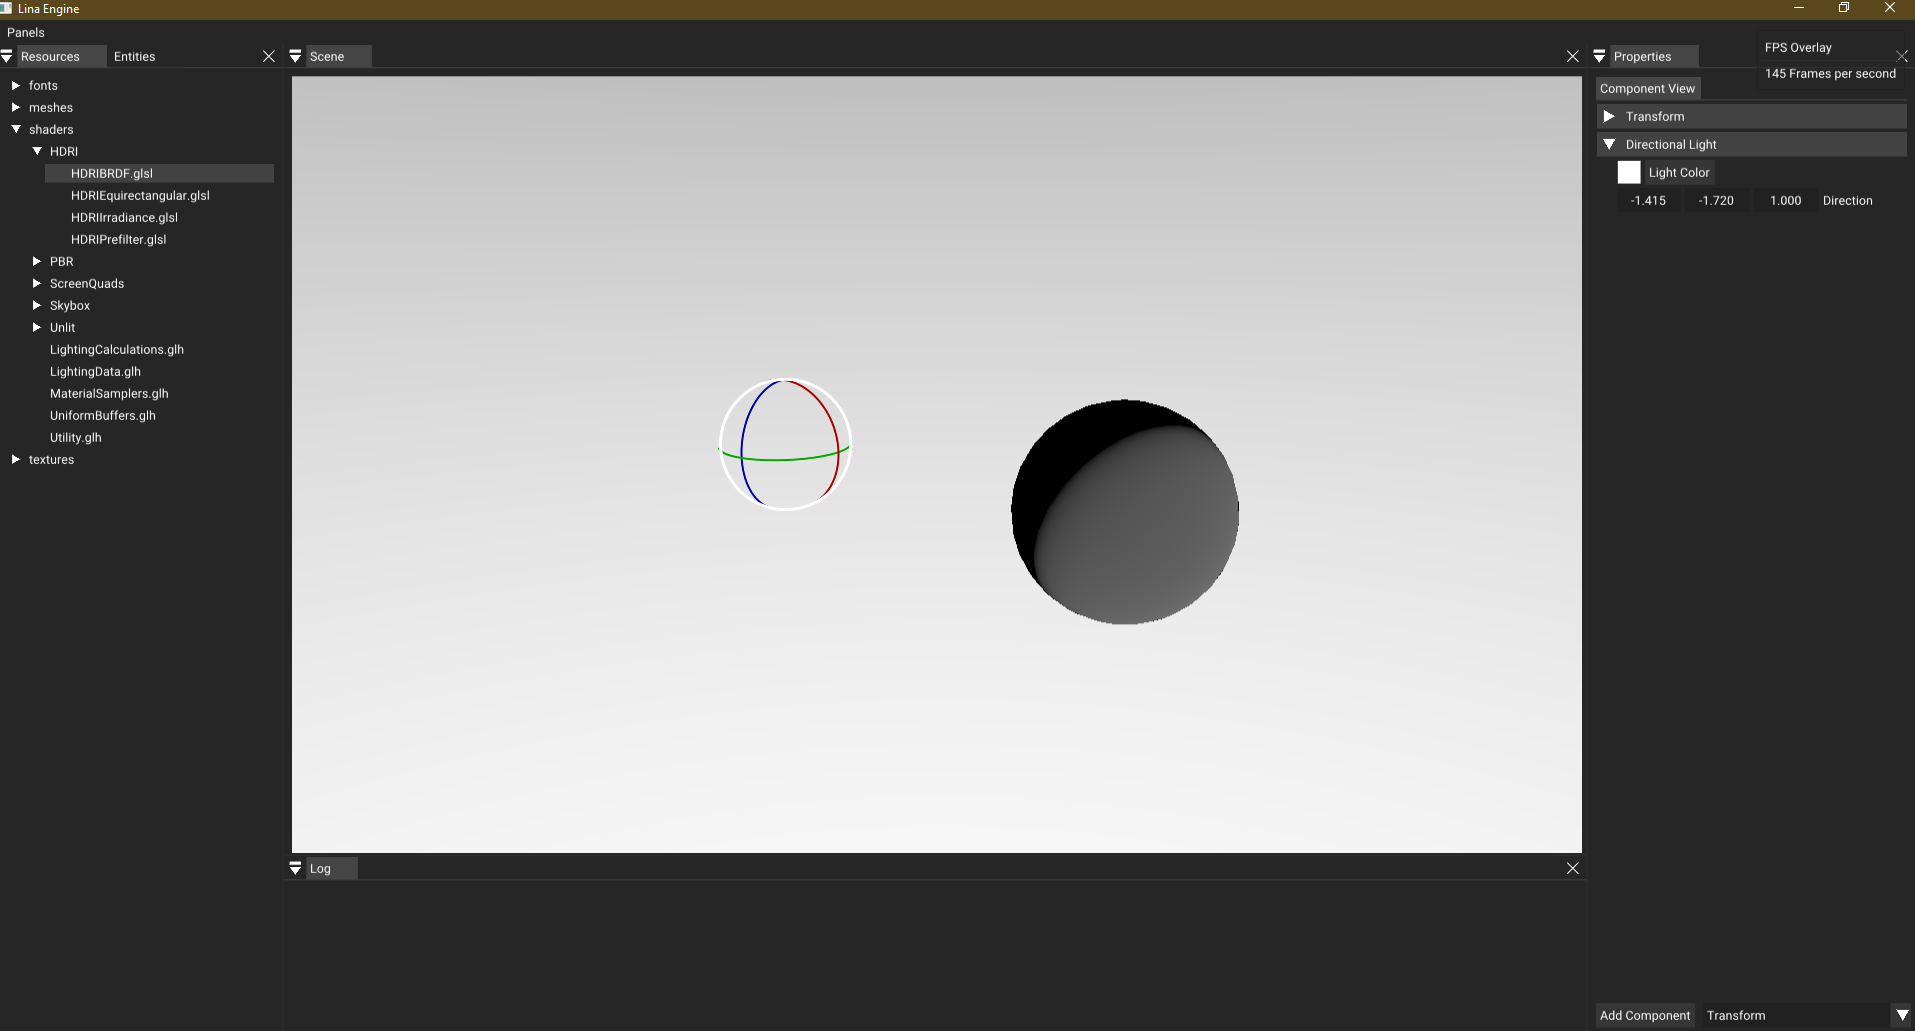
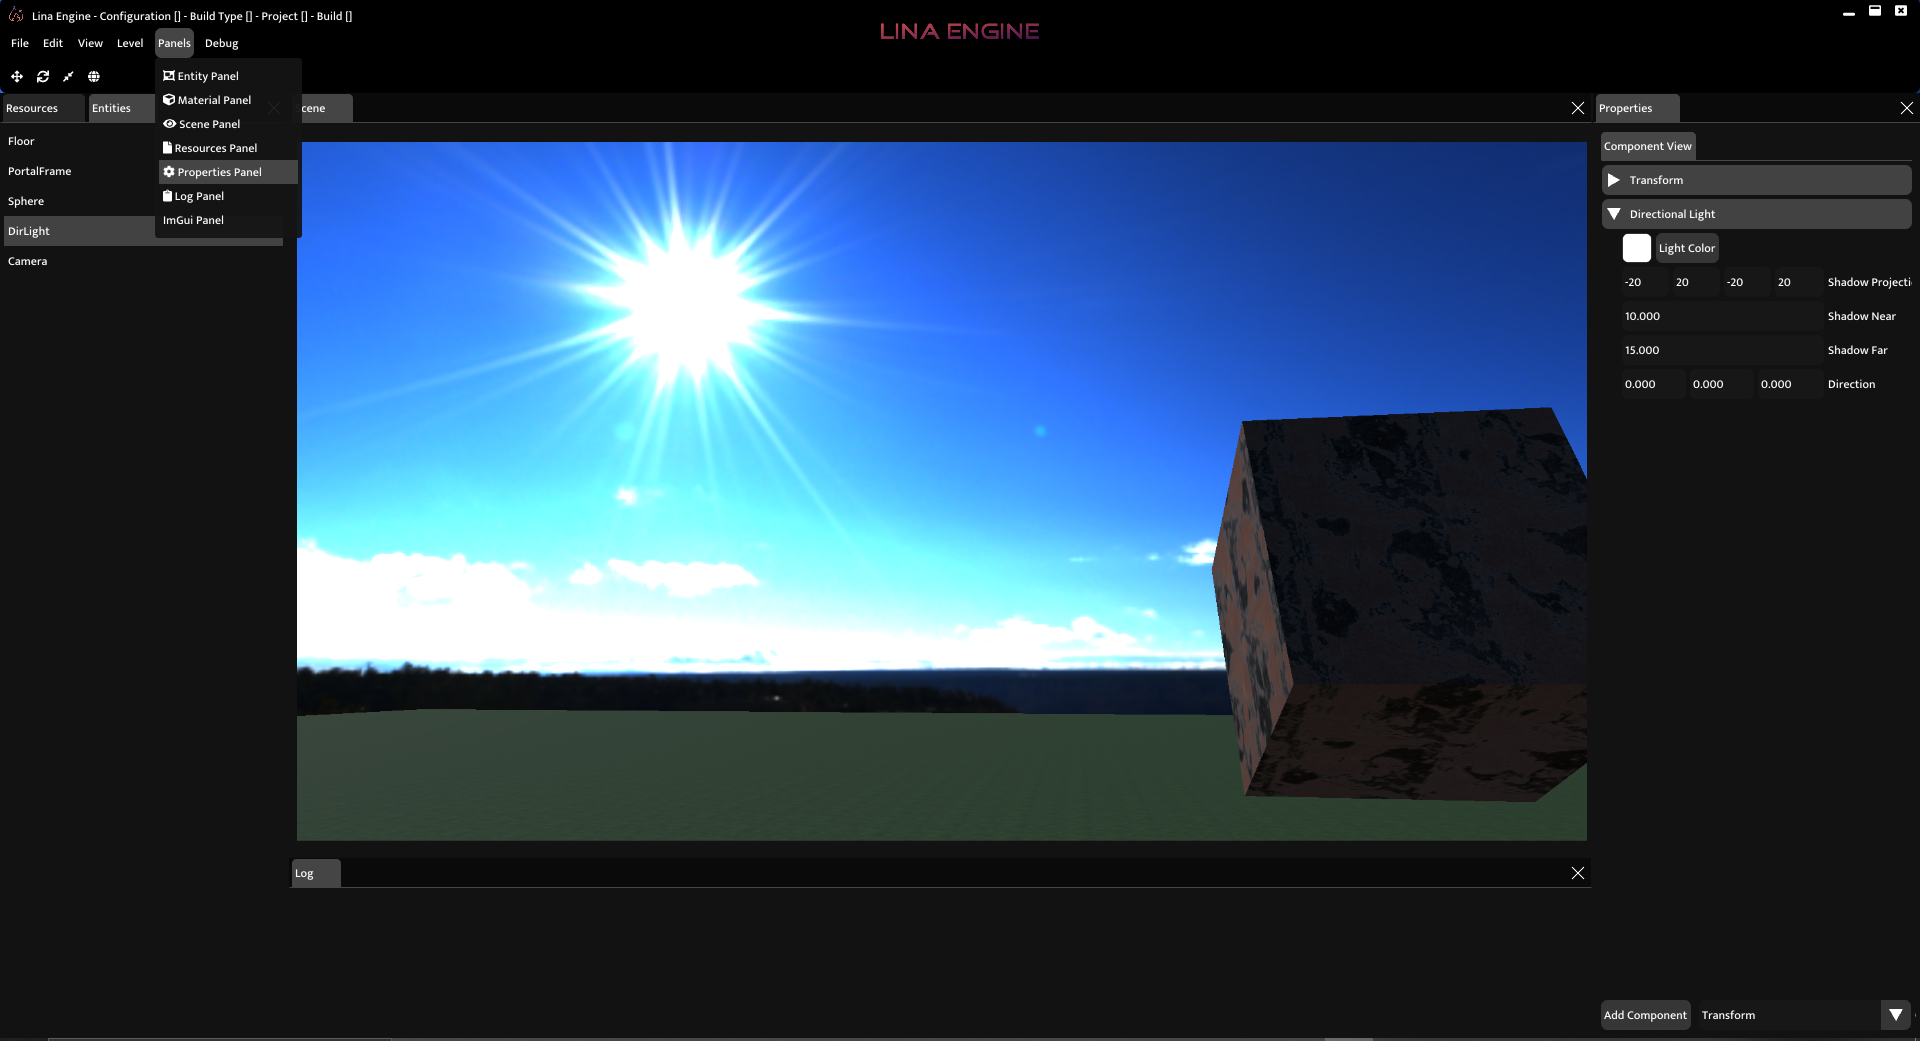
sync

diff --git a/LinaEditor/src/Panels/HeaderPanel.cpp b/LinaEditor/src/Panels/HeaderPanel.cpp
@@ -30,6 +30,7 @@ Timestamp: 10/8/2020 1:39:19 PM
 #include "imgui.h"
 #include "IconsFontAwesome5.h"
 #include "IconsForkAwesome.h"
+
 LinaEngine::Color headerBGColor = LinaEngine::Color(0, 0, 0, 1);
 LinaEngine::Color headerButtonsColor = LinaEngine::Color(1, 1, 1, 1); // ImVec4(113.f / 255.f, 36.f / 255.f, 78.f / 255.f, 1);
 LinaEngine::Color menuBarButtonActiveColor = LinaEngine::Color(0.5f, 0.5f, 0.5f, 1.0f);
@@ -40,8 +41,11 @@ LinaEngine::Vector2 resizeStartSize;
 LinaEngine::Graphics::Texture* windowLogo;
 LinaEngine::Graphics::Texture* windowIcon;
 bool appResizeActive;
+bool isAxisPivotLocal;
 
 #define RESIZE_THRESHOLD 10
+#define HEIGHT_HEADER 95
+#define OFFSET_WINDOWBUTTONS 80
 
 
 namespace LinaEditor
@@ -101,12 +105,12 @@ namespace LinaEditor
 		m_menuBarButtons.emplace_back(new MenuButton(/*ICON_FA_COLUMNS*/ "Panels", "pu_panel", panels, headerBGColor, true));
 
 		// Debug menu
-		std::vector<MenuElement*> debug;
-		
+		std::vector<MenuElement*> debug;		
 		debug.emplace_back(new MenuItem(ICON_FA_BOXES " Debug View Physics", std::bind(&GUILayer::MenuBarItemClicked, m_guiLayer, MenuBarItems::DebugViewPhysics)));
 		debug.emplace_back(new MenuItem(ICON_FA_ADJUST " Debug View Shadows", std::bind(&GUILayer::MenuBarItemClicked, m_guiLayer, MenuBarItems::DebugViewShadows)));
 		debug.emplace_back(new MenuItem(ICON_FA_IMAGES " Debug View Normal", std::bind(&GUILayer::MenuBarItemClicked, m_guiLayer, MenuBarItems::DebugViewNormal)));
 		m_menuBarButtons.emplace_back(new MenuButton(/*ICON_FA_BUG*/ "Debug", "dbg_panel", debug, headerBGColor, true));
+
 	}
 
 	void HeaderPanel::Draw()
@@ -151,9 +155,9 @@ namespace LinaEditor
 
 			// Start drawing window.
 			ImGui::SetNextWindowPos(ImVec2(viewport->GetWorkPos().x, viewport->GetWorkPos().y));
-			ImGui::SetNextWindowSize(ImVec2(viewport->GetWorkSize().x, 80));
+			ImGui::SetNextWindowSize(ImVec2(viewport->GetWorkSize().x, HEIGHT_HEADER));
 			ImGui::PushStyleColor(ImGuiCol_WindowBg, ImVec4(headerBGColor.r, headerBGColor.g, headerBGColor.b, headerBGColor.a));
-			ImGui::Begin("Header", NULL, ImGuiWindowFlags_NoDocking | ImGuiWindowFlags_NoTitleBar | ImGuiWindowFlags_NoResize);
+			ImGui::Begin("Header", NULL, ImGuiWindowFlags_NoDocking | ImGuiWindowFlags_NoTitleBar | ImGuiWindowFlags_NoResize | ImGuiWindowFlags_NoScrollbar | ImGuiWindowFlags_NoDecoration);
 
 			// Handle window movement.
 			if (ImGui::IsWindowHovered() && ImGui::IsMouseDown(ImGuiMouseButton_Left))
@@ -182,7 +186,7 @@ namespace LinaEditor
 
 			// Minimize, maximize, exit buttons.
 			ImGui::SameLine();
-			ImGui::SetCursorPosX(ImGui::GetWindowSize().x - 80.0f);
+			ImGui::SetCursorPosX(ImGui::GetWindowSize().x - OFFSET_WINDOWBUTTONS);
 			ImGui::SetCursorPosY(ImGui::GetCursorPosY() - linaLogoSize.y / 2.0f);
 			ImGui::PushStyleColor(ImGuiCol_Button, ImVec4(headerBGColor.r, headerBGColor.g, headerBGColor.b, headerBGColor.a));
 			ImGui::PushStyleColor(ImGuiCol_Text, ImVec4(headerButtonsColor.r, headerButtonsColor.g, headerButtonsColor.b, headerButtonsColor.a));
@@ -221,7 +225,44 @@ namespace LinaEditor
 			for (int i = 0; i < m_menuBarButtons.size(); i++)
 				m_menuBarButtons[i]->Draw();
 
-			
+			// Draw Tool Buttons
+			ImGui::PushStyleColor(ImGuiCol_Button, ImVec4(headerBGColor.r, headerBGColor.g, headerBGColor.b, headerBGColor.a));
+
+			// Move
+			if (ImGui::Button(ICON_FA_ARROWS_ALT))
+			{
+
+			}
+
+			// Rotate
+			ImGui::SameLine();
+			if (ImGui::Button(ICON_FA_SYNC))
+			{
+
+			}
+			// Scale
+			ImGui::SameLine();
+			if (ImGui::Button(ICON_FA_COMPRESS_ALT))
+			{
+
+			}
+
+			static const char* pivotButtonText = ICON_FA_GLOBE;
+
+			// Change pivot
+			ImGui::SameLine();
+			if (ImGui::Button(pivotButtonText))
+			{
+				isAxisPivotLocal = !isAxisPivotLocal;
+
+				if(isAxisPivotLocal)
+					pivotButtonText = ICON_FA_THUMBTACK;
+				else
+					pivotButtonText = ICON_FA_GLOBE;
+				
+			}
+
+			ImGui::PopStyleColor();
 			ImGui::End();
 			ImGui::PopStyleColor();
 

diff --git a/LinaEditor/src/Core/GUILayer.cpp b/LinaEditor/src/Core/GUILayer.cpp
@@ -56,7 +56,7 @@ static bool dockWindowInit = true;
 static const char* saveLevelDialogID = "id_saveLevel";
 static const char* loadLevelDialogID = "id_loadLevel";
 
-#define DOCKSPACE_BEGIN 100
+#define DOCKSPACE_BEGIN 95
 
 namespace LinaEditor
 {
@@ -111,25 +111,27 @@ namespace LinaEditor
 
 		ImVec4* colors = ImGui::GetStyle().Colors;
 		style.AntiAliasedFill = false;
-		style.WindowRounding = 0.0f;
-		style.TabRounding = 0.0f;
-		style.ChildRounding = 0.0f;
-		style.PopupRounding = 0.0f;
-		style.FrameRounding = 0.0f;
-		style.ScrollbarRounding = 0.0f;
+		style.WindowRounding = 6.0f;
+		style.TabRounding = 4.0f;
+		style.ChildRounding = 1.0f;
+		style.PopupRounding = 3.0f;
+		style.FrameRounding = 6.0f;
+		style.ScrollbarRounding = 5.0f;
 		style.FramePadding = ImVec2(3, 5);
+		style.GrabRounding = 6.0f;
 		style.WindowMenuButtonPosition = ImGuiDir_None;
+
 		colors[ImGuiCol_Text] = ImVec4(1.00f, 1.00f, 1.00f, 1.00f);
 		colors[ImGuiCol_TextDisabled] = ImVec4(0.50f, 0.50f, 0.50f, 1.00f);
-		colors[ImGuiCol_WindowBg] = ImVec4(0.15f, 0.15f, 0.15f, 0.54f);
-		colors[ImGuiCol_ChildBg] = ImVec4(0.20f, 0.20f, 0.20f, 0.54f);
+		colors[ImGuiCol_WindowBg] = ImVec4(0.00f, 0.00f, 0.00f, 1.00f);
+		colors[ImGuiCol_ChildBg] = ImVec4(0.07f, 0.07f, 0.07f, 0.54f);
 		colors[ImGuiCol_PopupBg] = ImVec4(0.08f, 0.08f, 0.08f, 0.94f);
-		colors[ImGuiCol_Border] = ImVec4(0.11f, 0.11f, 0.11f, 0.54f);
+		colors[ImGuiCol_Border] = ImVec4(0.00f, 0.00f, 0.00f, 0.00f);
 		colors[ImGuiCol_BorderShadow] = ImVec4(0.00f, 0.00f, 0.00f, 0.00f);
 		colors[ImGuiCol_FrameBg] = ImVec4(0.11f, 0.11f, 0.11f, 0.54f);
 		colors[ImGuiCol_FrameBgHovered] = ImVec4(0.40f, 0.40f, 0.40f, 0.40f);
 		colors[ImGuiCol_FrameBgActive] = ImVec4(0.56f, 0.56f, 0.56f, 0.67f);
-		colors[ImGuiCol_TitleBg] = ImVec4(0.15f, 0.15f, 0.15f, 1.00f);
+		colors[ImGuiCol_TitleBg] = ImVec4(0.07f, 0.07f, 0.07f, 0.54f);
 		colors[ImGuiCol_TitleBgActive] = ImVec4(0.15f, 0.15f, 0.15f, 1.00f);
 		colors[ImGuiCol_TitleBgCollapsed] = ImVec4(0.15f, 0.15f, 0.15f, 1.00f);
 		colors[ImGuiCol_MenuBarBg] = ImVec4(0.15f, 0.15f, 0.15f, 1.00f);
@@ -146,7 +148,7 @@ namespace LinaEditor
 		colors[ImGuiCol_Header] = ImVec4(0.26f, 0.26f, 0.26f, 1.00f);
 		colors[ImGuiCol_HeaderHovered] = ImVec4(0.27f, 0.27f, 0.27f, 1.00f);
 		colors[ImGuiCol_HeaderActive] = ImVec4(0.44f, 0.44f, 0.44f, 1.00f);
-		colors[ImGuiCol_Separator] = ImVec4(0.17f, 0.17f, 0.17f, 1.00f);
+		colors[ImGuiCol_Separator] = ImVec4(0.07f, 0.07f, 0.07f, 1.00f);
 		colors[ImGuiCol_SeparatorHovered] = ImVec4(0.23f, 0.23f, 0.23f, 1.00f);
 		colors[ImGuiCol_SeparatorActive] = ImVec4(0.23f, 0.23f, 0.23f, 1.00f);
 		colors[ImGuiCol_ResizeGrip] = ImVec4(0.44f, 0.44f, 0.44f, 1.00f);
@@ -169,6 +171,7 @@ namespace LinaEditor
 		colors[ImGuiCol_NavWindowingHighlight] = ImVec4(1.00f, 1.00f, 1.00f, 0.70f);
 		colors[ImGuiCol_NavWindowingDimBg] = ImVec4(0.80f, 0.80f, 0.80f, 0.20f);
 		colors[ImGuiCol_ModalWindowDimBg] = ImVec4(0.80f, 0.80f, 0.80f, 0.35f);
+
 
 
 		// setup panels, windows etc.
@@ -255,7 +258,7 @@ namespace LinaEditor
 		// Draw properties panel
 		m_propertiesPanel->Draw();
 
-		//if (showIMGUIDemo)
+		if (showIMGUIDemo)
 		ImGui::ShowDemoWindow(&showIMGUIDemo);
 
 		// Rendering

diff --git a/LinaEditor/src/Levels/Example1Level.cpp b/LinaEditor/src/Levels/Example1Level.cpp
@@ -152,9 +152,8 @@ void Example1Level::Initialize()
 	LINA_CLIENT_WARN("Example level 1 initialize.");
 
 	// Create, setup & assign skybox material.
-	CreateProceduralSkybox(m_RenderEngine);
+	CreateHDRISkybox(m_RenderEngine);
 
-	return;
 	camera = m_ECS->CreateEntity("Camera");
 	auto& camFreeLook = m_ECS->emplace<FreeLookComponent>(camera);
 	auto& camTransform = m_ECS->emplace<TransformComponent>(camera);
@@ -203,7 +202,7 @@ void Example1Level::Initialize()
 	sphereMat->SetTexture(MAT_TEXTURE2D_ROUGHNESSMAP, &roughnessSphere);
 	sphereMat->SetTexture(MAT_TEXTURE2D_METALLICMAP, &metallicSphere);
 	sphereMat->SetTexture(MAT_TEXTURE2D_AOMAP, &aoSphere);
-	//m_RenderEngine->SetHDRIData(sphereMat);
+	m_RenderEngine->SetHDRIData(sphereMat);
 
 
 	floorMaterial = &m_RenderEngine->CreateMaterial(-55, Shaders::PBR_LIT);
@@ -213,7 +212,7 @@ void Example1Level::Initialize()
 	floorMaterial->SetTexture(MAT_TEXTURE2D_METALLICMAP, &metallicFloor);
 	floorMaterial->SetTexture(MAT_TEXTURE2D_AOMAP, &aoFloor);
 	floorMaterial->SetVector2(MAT_TILING, Vector2(100, 100));
-	//m_RenderEngine->SetHDRIData(floorMaterial);
+	m_RenderEngine->SetHDRIData(floorMaterial);
 
 	MeshRendererComponent cubeRenderer;
 	cubeRenderer.meshID = Primitives::CUBE;

diff --git a/LinaEditor/src/Widgets/MenuButton.cpp b/LinaEditor/src/Widgets/MenuButton.cpp
@@ -53,7 +53,6 @@ namespace LinaEditor
 
 	void MenuButton::Draw()
 	{
-		
 
 		if(m_useSameLine)
 			ImGui::SameLine();
